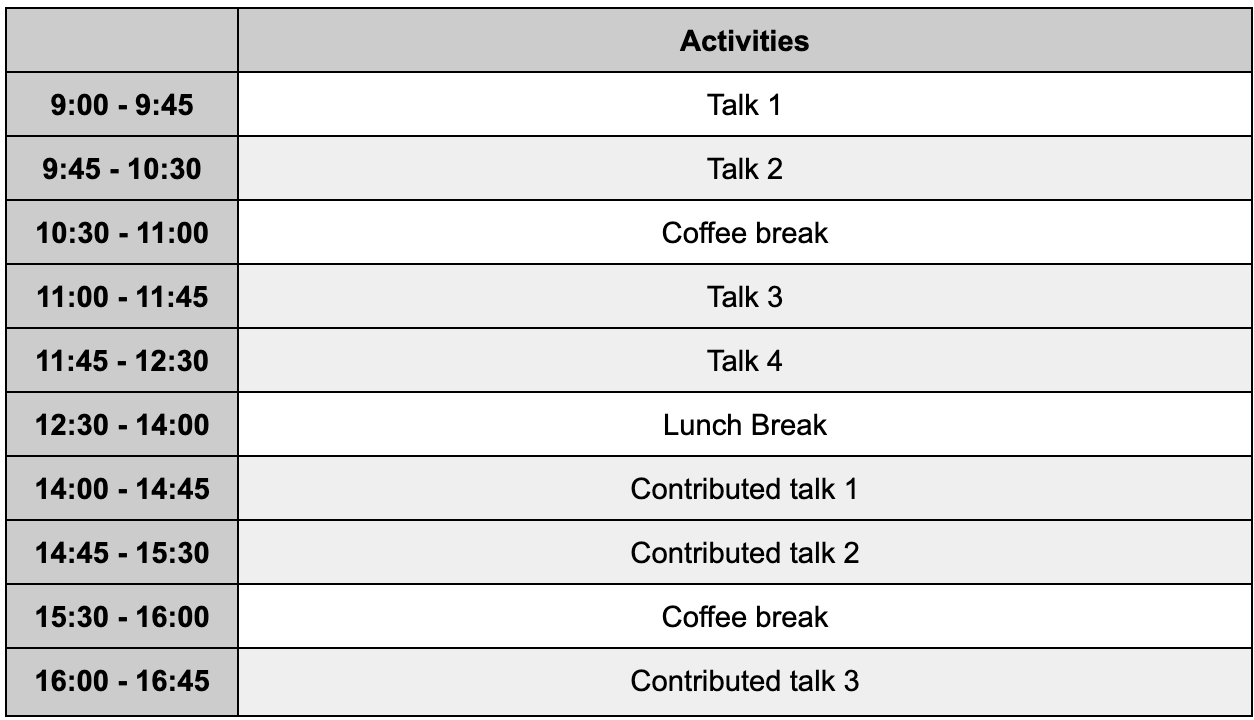
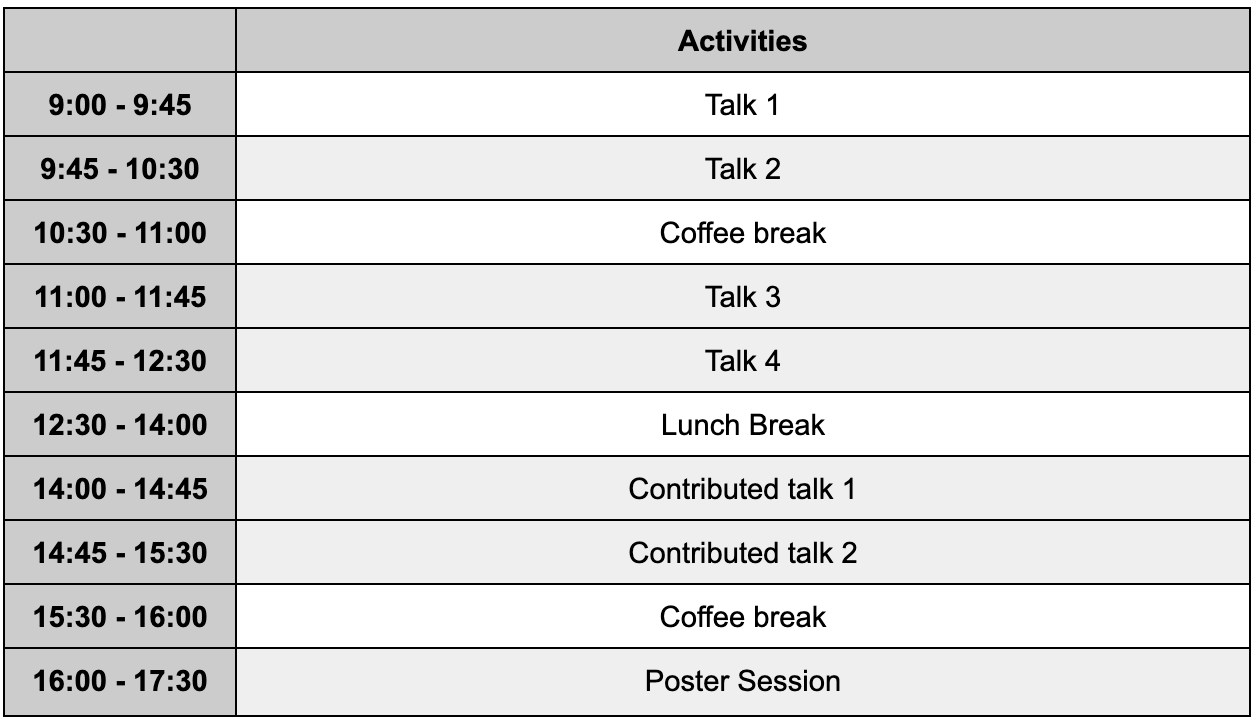
Update

diff --git a/index.md b/index.md
@@ -8,7 +8,7 @@ __Organisers:__  [Bruno Loureiro](https://brloureiro.github.io/) (DI-ENS & CNRS)
 
 # Travel support
 
-This thematic day is part of the [GdR IASIS](https://gdr-iasis.cnrs.fr/) (*Information, Apprentissage, Signal, Image et ViSion*).  The GdR IASIS can cover the travel costs of up to 2 people from labs which are part of the GdR. Note accomodation costs cannot be covered.
+This thematic day is part of the [GdR IASIS](https://gdr-iasis.cnrs.fr/) (*Information, Apprentissage, Signal, Image et ViSion*).  The GdR IASIS can cover the travel costs of up to 2 people from [GdR affiliated laboratories](https://gdr-iasis.cnrs.fr/membres-du-gdr/annuaire-des-laboratoires-2/). Note accomodation costs cannot be covered.
 
 # Schedule
  
@@ -26,7 +26,7 @@ France
 
 # Registration
 
-Participants should register by filling [this form]().
+Participants should register by filling [this form](https://gdr-iasis.cnrs.fr/membres-du-gdr/annuaire-des-laboratoires-2/).
 
 # Speakers
 
@@ -36,7 +36,7 @@ Participants should register by filling [this form]().
 - [Guilhem Semerjian](https://www.phys.ens.psl.eu/~guilhem/) (LPENS)
 - [Ludovic Stéphan](https://www.lstephan.fr/) (ENSAI Rennes)
 
-We will also count with 3 contributed talks from participants (TBA).
+We will also count with 2 contributed talks from participants (TBA).
 
 # Sponsors
 
